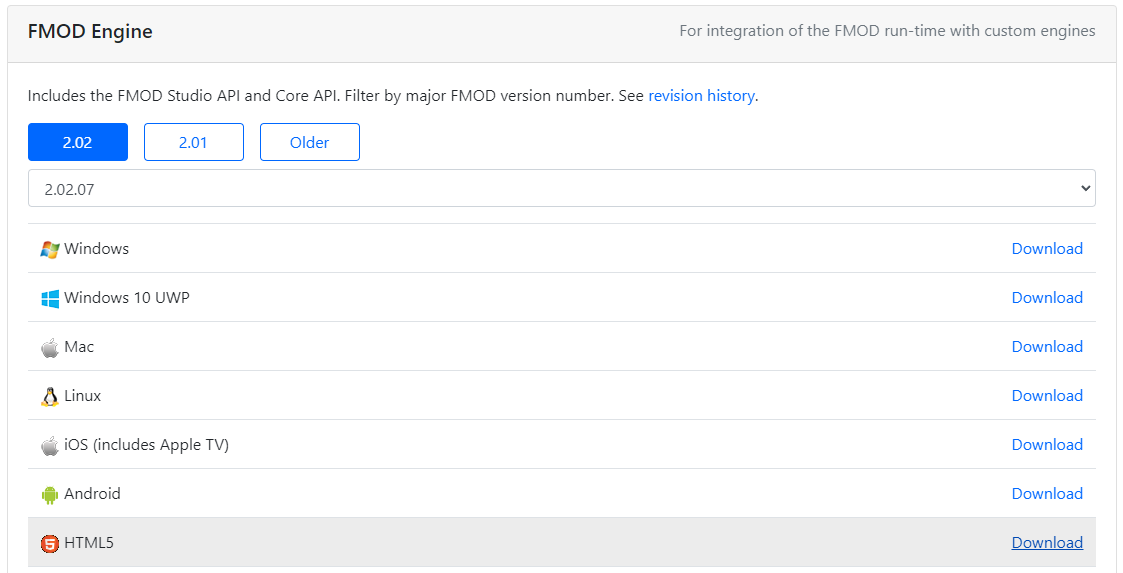
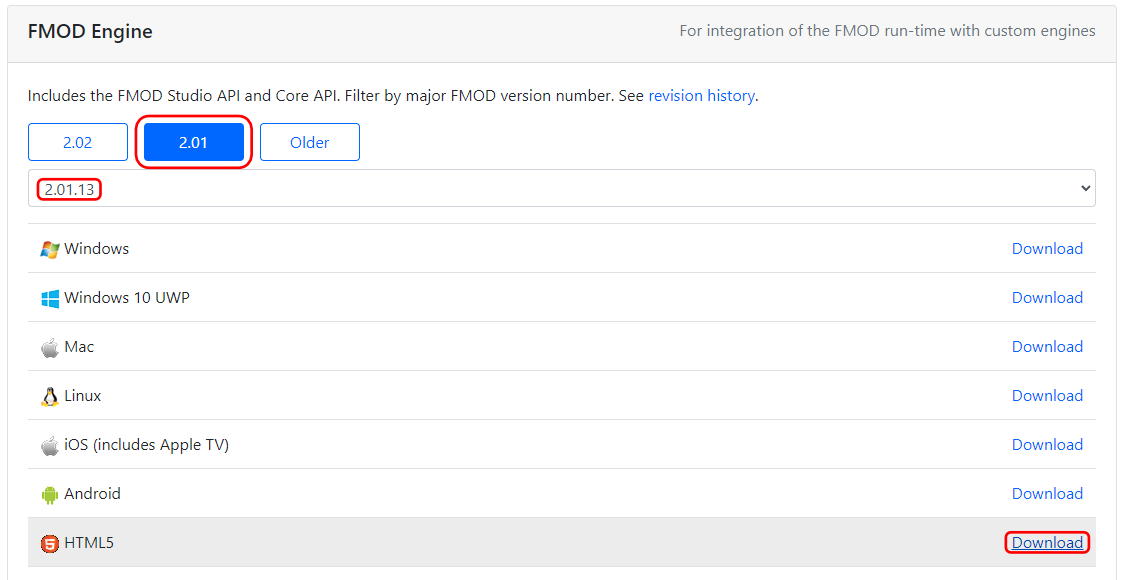
Update README.md

diff --git a/README.md b/README.md
@@ -119,14 +119,22 @@ Plugin's order doesn't matter, unless you're using additional audio-related feat
 ## [3.2.](#table-of-content) Add FMOD Engine
 
 ![download-fmod-html5](./img/download-fmod-html5.png)  
-[Download FMOD Engine at here][fmod-download], it requires HTML5 version.
+[Download FMOD Engine at here][fmod-download], it requires HTML5 version.  
+Please use version `2.01.13` for now, it's verified by me (works well on DOWNFALLEN).  
+[Here's why in this thread][nwjs-problem].
+
+![download-fmod-studio](./img/download-fmod-studio.png)  
+Because of we downloaded the `2.01.13` version of engine above, so I recommended to use Studio program with `2.01.13` version too for minimize problems.
 
 ![add-library-to-project](./img/add-library-to-project.png)  
 Put `fmodstudio.js` and `fmodstudio.wasm` in `api/studio/lib/upstream/wasm` of the downloaded zip file into `js/lib` in the project folder.
 
 ![modify-fmodstudio.js](./img/modify-fmodstudio.js.png)  
-Then open `fmodstudio.js` and find the section `ENVIRONMENT_IS_NODE=typeof process==="object"&&typeof process`.  
-Then add `false&&` after `ENVIRONMENT_IS_NODE=` and save it.
+Then open `fmodstudio.js` and find the section
+```js
+...ENVIRONMENT_IS_NODE=typeof process==="object"&&typeof process...
+```
+Add `false&&` after `ENVIRONMENT_IS_NODE=` and save it.
 
 Then, open `index.html` in the project folder and add the following line as below into `<body>` tags.
 
@@ -171,26 +179,31 @@ If you've been working on the index.html you created as a new project, it should
 
 Then you are ready to go!
 
-# [4.](#table-of-content) Plugin options
+# [5.](#table-of-content) Quick example
+
+![celeste-fmod](./img/celeste-fmod.png)  
+To see an quick example in action, create a new RPG Maker project,
+and overwrite the `plugins.js` enclosed in the repository with `js/plugins.js` in your newly created project directory.
+
+![build-celeste-fmod](./img/build-celeste-fmod.png)  
+Build the [Celeste FMOD Studio Project][fmod-learning-resources], and setup them by referring to
+[Bank asset path](#52-bank-asset-path),
+[Bank assets](#53-bank-assets),
+and [GUIDs js path](#54-guids-js-path) in this section.
+
+You can check directly at the examples based on this setup in the [Basic Usage](#6-basic-usage) section after this section.
+
+# [5.](#table-of-content) Plugin options
 
 ![plugins-options](./img/plugins-options.png)  
 This section covers the plugin options menu.
 
-![celeste-fmod](./img/celeste-fmod.png)  
-To see an quick example in action, create a new RPG Maker project, and overwrite the `plugins.js` enclosed in the repository with `js/plugins.js` in the newly created project directory.
-
-![build-celeste-fmod](./img/build-celeste-fmod.png)  
-Build the [Celeste FMOD Studio Project][fmod-learning-resources], and setup them by referring to
-[Bank asset path](#42-bank-asset-path),
-[Bank assets](#43-bank-assets),
-and [GUIDs js path](#44-guids-js-path) in this section.
-
-## [4.1.](#table-of-content) Total memory
+## [5.1.](#table-of-content) Total memory
 
 FMOD's virtual memories' maximum size. (byte units)  
 Default setting is `64MB`. (`64 * 1024 * 1024`)
 
-## [4.2.](#table-of-content) Bank asset path
+## [5.2.](#table-of-content) Bank asset path
 
 Specify the path where the FMOD's Bank assets are.  
 Default setting is `audio/bank`.
@@ -198,19 +211,21 @@ Default setting is `audio/bank`.
 ![bank-files](./img/bank-files.png)  
 Bank files created by building in FMOD Studio must all be in the this path.
 
-## [4.3.](#table-of-content) Bank assets
+## [5.3.](#table-of-content) Bank assets
 
 Specify banks to load.  
 Master bank and it's strings must be assigned.  
 i.e. if you have `Master Bank.bank`, `Master Bank.strings.bank`, `Music.bank` then
 you should add `Master Bank`, `Master Bank.strings`, `Music` at this option.
 
-## [4.4.](#table-of-content) GUIDs js path
+## [5.4.](#table-of-content) GUIDs js path
 
 Specify GUID collection script file.  
-Default setting is `audio/bank/fmod_studio_guids.js`
+Default setting is `audio/bank/fmod_studio_guids.js`.  
+From now on, we'll call it **`GUID script`**.
 
-This script file(`fmod_studio_guids.js`) can be created by the following below process.
+
+**`GUID script`** file(`fmod_studio_guids.js`) can be generated by the following below process.
 
 1. **Overwrite `exportGUIDsHeader.js` in this repository to your FMOD Studio's scripts file**  
    ![overwrite-export-guids-header](./img/overwrite-export-guids-header.png)  
@@ -218,24 +233,230 @@ This script file(`fmod_studio_guids.js`) can be created by the following below p
 
 2. **Export GUIDs header in FMOD Studio's menu : `Scripts/FMOD Examples/Export GUIDs Header/js File`.**  
    ![export-guids-header-as-js](./img/export-guids-header-as-js.png)  
-   Then FMOD Studio will generate GUID header scripts and save as `fmod_studio_guids.js` in the same location as the project file you are currently working on.  
+   Then FMOD Studio will generate **`GUID script`** and save as `fmod_studio_guids.js` in the same location as the project file you are currently working on.  
    ![exported-guids](./img/exported-guids.png)  
    > Note : If there is an unintentional duplicate of the event name in generated script(`fmod_studio_guids.js`) file, this script will not work due to an error.  
-   This possibly can resolved by restarting FMOD Studio, and creating the GUID header script again.
+   This possibly can resolved by restarting FMOD Studio, and creating the **`GUID script`** again.
 
 3. **Move the generated script to the path in plugin option.**  
    ![move-generated-script-to-specified-path](./img/move-generated-script-to-specified-path.png)
 
 That's it!  
 
-## [4.5.](#table-of-content) Integrated VCAs
+## [5.5.](#table-of-content) Integrated VCAs
 
 Specify which VCA is used for each types of channels.  
 If you leave these blank, FMOD_MV.js will try finds a VCA name
 with `BGM`, `BGS`, `ME`, `SE`, if found them then
 it will be used automatically.
 
-## [4.6.](#table-of-content) 
+Applicable VCA names can be found in `VCA` of `fmod_studio_guids.js` created in [GUIDs js path][guids-js].
+
+## [5.6.](#table-of-content) System musics
+
+Replaces system music with FMOD events.  
+Each item corresponds to the corresponding system music.  
+If you leave it blank, it will be played as the music set by RPG Maker. (RM Audio based)
+
+![guid-events-location][guid-events-location]
+
+Applicable event names can be found in `Event` of `fmod_studio_guids.js` created in [GUIDs js path section][guids-js].
+
+> Note : Battle-related system audio assignments are available for future use.  
+> Battle-related parts are not implemented yet, so unintended behavior may occur.
+
+## [5.7.](#table-of-content) System music effects
+
+Replaces system music effect(ME) with FMOD events.  
+Each item corresponds to the corresponding system music effects.  
+If you leave it blank, it will be played as the music effect set by RPG Maker. (RM Audio based)
+
+![guid-events-location][guid-events-location]
+
+Applicable event names can be found in `Event` of `fmod_studio_guids.js` created in [GUIDs js path section][guids-js].
+
+> Note : Battle-related system audio assignments are available for future use.  
+> Battle-related parts are not implemented yet, so unintended behavior may occur.
+
+## [5.8.](#table-of-content) System sound effects
+
+Replaces system sound effect(SE) with FMOD events.  
+Each item corresponds to the corresponding system sound effects.  
+If you leave it blank, it will be played as the sound effect set by RPG Maker. (RM Audio based)
+
+![guid-events-location][guid-events-location]
+
+Applicable event names can be found in `Event` of `fmod_studio_guids.js` created in [GUIDs js path section][guids-js].
+
+## [6.](#table-of-content) Basic usage
+
+FMOD_MV.js is designed in a way to maintain as much unity as possible with RPG Maker.  
+However, it has not yet been implemented to harmonize with all functions of RPG Maker.  
+(Refer to [2. Limitation](#2-limitation) for details)
+
+The example code in this section can be tried directly in [Quick example](#5-quick-example) if you have created a project set up as instructed in that project!
+
+All guides presented here are based on **script event**.
+
+### [6.1.](#table-of-content) How Events work in FMOD_MV.js
+
+By default, in FMOD, all sounds is Event, but here you can decide which category to play the Event you want to play in: `BGM`, `BGS`, `ME`, `SE`.  
+As mentioned earlier, this is because the focus is on unifying the functional elements with RPG Maker.  
+Such as assigning the Event played in the `BGM` and `BGS` categories in the save and replaying them when they are recalled.
+
+![speaker](./img/speaker.png)
+
+And in FMOD_MV.js, the concept is implemented that called Speaker, in all character elements (e.g. events on the map, player characters, party members, vehicles, etc.).
+
+Speakers work so that sound is attached to a specific object.  
+If the FMOD Event is 3D, stereo sound can be used, and for this purpose, Speaker is used.
+
+So keep this in mind.
+
+### [6.1.](#table-of-content) Playing event
+
+#### [6.1.1.](#table-of-content) Play BGM
+
+```js
+FMOD_MV.PlayBGM(guid, isAppend, immediateStop);
+```
+
+Plays Event as BGM category.
+
+- `guid` : The Event you want to play in the BGM category.  
+  You can use the event defined in **`GUID script`**.  
+  If you're not sure what to put in, check out the example below.
+
+- `isAppend` : (Optional) Determines whether to play a new BGM event while leaving the playing BGM as it is.  
+  Acceptable value is `true` for yes, `false` for no, and default value is `false`.
+
+- `immediateStop` : (Optional) Determines how the FMOD stops previously playing music.  
+  Acceptable value is `true` for yes, `false` for no, and default value is `false`.
+
+**Example**
+
+1. Play `music_lvl1_main` Event with slowly stopping the previous BGM Events  
+   ```js
+   FMOD_MV.PlayBGM(FMOD_FSPRO.Event.music_lvl1_main);
+   ```
+
+2. Overlaying `music_lvl1_theo` Event  
+   ```js
+   FMOD_MV.PlayBGM(FMOD_FSPRO.Event.music_lvl1_theo, true);
+   ```
+
+3. Immediately stop the BGM Events being played and play `music_lvl2_chase` Event.  
+   ```js
+   FMOD_MV.PlayBGM(FMOD_FSPRO.Event.music_lvl2_chase, false, true);
+   ```
+
+#### [6.1.2.](#table-of-content) Play BGS
+
+```js
+FMOD_MV.PlayBGS(guid, isAppend, immediateStop);
+```
+
+Plays Event as BGS category.
+
+- `guid` : The Event you want to play in the BGS category.  
+  You can use the event defined in **`GUID script`**.  
+  If you're not sure what to put in, check out the example below.
+
+- `isAppend` : (Optional) Determines whether to play a new BGS event while leaving the playing BGS as it is.  
+  Acceptable value is `true` for yes, `false` for no, and default value is `false`.
+
+- `immediateStop` : (Optional) Determines how the FMOD stops previously playing music.  
+  Acceptable value is `true` for yes, `false` for no, and default value is `false`.
+
+**Example**
+
+This is similar to [Play BGM](#611-play-bgm), check out the [Play BGM](#611-play-bgm)'s example.
+
+#### [6.1.3.](#table-of-content) Play ME
+
+```js
+FMOD_MV.PlayME(guid, immediateStop);
+```
+
+Plays Event as ME category.  
+As with RPG Maker, when an event in the ME category is triggered, the BGM remembers the state and goes into a stopped state.  
+When all MEs are finished or stopped, the BGM recalls what it remembered and plays it again.
+
+- `guid` : The Event you want to play in the ME category.  
+  You can use the event defined in **`GUID script`**.  
+  If you're not sure what to put in, check out the example below.
+
+- `immediateStop` : (Optional) Determines how the FMOD stops previously playing music.  
+  Acceptable value is `true` for yes, `false` for no, and default value is `false`.
+
+**Example**
+
+1. Play `ui_postgame_strawberry_total_all` Event with slowly stopping the previous ME Events  
+   ```js
+   FMOD_MV.PlayME(FMOD_FSPRO.Event.ui_postgame_strawberry_total_all);
+   ```
+
+2. Play `ui_postgame_strawberry_total_all` while immediately stopping the previous ME Events  
+   ```js
+   FMOD_MV.PlayME(FMOD_FSPRO.Event.ui_postgame_strawberry_total_all, true);
+   ```
+
+### [6.1.4.](#table-of-content) Play SE
+
+```js
+FMOD_MV.PlaySE(guid, at, parameters, forceBind);
+```
+
+Plays Event as SE category.  
+It has the most functions, please read carefully and check it with examples.
+
+> Note : FMOD Events played in this category will not be recorded in save file.
+
+- `guid` : The Event you want to play in the SE category.  
+  You can use the event defined in **`GUID script`**.  
+  If you're not sure what to put in, check out the example below.
+
+- `at` : (Optional) Specifies where the sound is coming from.  
+  Acceptable values are below, default value is `null`(none).
+  
+  - `this` is for RPG Maker event itself that executing this script.  
+    There's also have explicit expression as `this.event()`.  
+    If the FMOD Event is 3D or `forceBind` is `true`, it will be bound to this character's Speaker.
+  
+  - `$gamePlayer` is for player character.  
+    If the FMOD Event is 3D or `forceBind` is `true`, it will be bound to player character's Speaker.
+  
+  - `$gameMap.event(<ID>)` is for RPG Maker event in current map by ID.  
+    In example, if you want make sound to RPG Maker event with ID 12 then use `$gameMap.event(12)`.  
+    If the FMOD Event is 3D or `forceBind` is `true`, it will be bound to target RPG Maker event character's Speaker.
+  
+  - `{x:<X>,y:<Y>}` is for only specifying sound's location.  
+    In example, if you want make sound to event on `X:51`, `Y:64` then use `{x:51,y:64}`.  
+    You can also use this to mix multiple expressions like `{x:51,y:$gamePlayer.y}`, `{x:$gameMap.event(24).x,y:this.event().y}`...
+
+- `parameters` : (Optional) Specifies the Event parameters before start Event.  
+  It is designed to allow multiple parameters to be specified.  
+  It follows the syntax below.  
+  ```json
+  {
+    "<Parameter Name 1>": [<Value>, <Immediate Set>],
+    "<Parameter Name 2>": [<Value>, <Immediate Set>],
+    "<Parameter Name 3>": [<Value>, <Immediate Set>]
+  }
+  ```
+  - `Parameter Name` : Specifies parameter name for Event.
+  
+  - `Value` : The value to assign to the corresponding parameter.  
+    FMOD Studio allows you to specify different formats for parameters, but these formats are all numeric as a result.
+  
+  - `Immediate Set` : Specifies that this parameter will be assigned directly.  
+    Acceptable value is `true` for yes, `false` for no.
+  
+  For detailed usage examples, please refer to the **Example** below.
+
+- `forceBind` : (Optional) Whether to force bind to the `at`.  
+  So if `at` is `null` or is of the form `{x:<X>,y:<Y>}` then don't need to use it.
+  
 
 [releases]: https://github.com/creta5164/fmod-rmmv/releases
 [LICENSE]: https://github.com/creta5164/fmod-rmmv/blob/main/LICENSE
@@ -247,3 +468,6 @@ it will be used automatically.
 [fmod-legal]: https://www.fmod.com/legal
 [fmod-download]: https://www.fmod.com/download#fmodengine
 [fmod-learning-resources]: https://www.fmod.com/download#learningresources
+[nwjs-problem]: https://qa.fmod.com/t/problem-with-html5-build-on-nw-js/19116
+[guids-js]: #44-guids-js-path
+[guid-events-location]: ./img/guid-events-location.png
